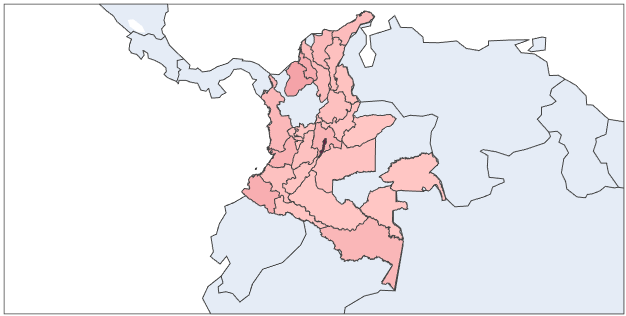
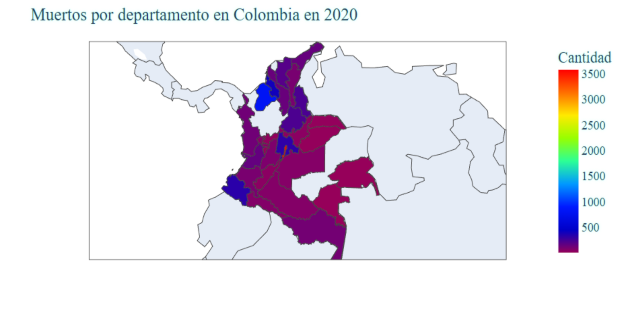
Todo casi listo

diff --git a/pages/graph4.py b/pages/graph4.py
@@ -5,7 +5,7 @@ import pyodbc
 import pandas as pd
 import dash_bootstrap_components as dbc
 
-server = 'LAPTOP-51FAGA1L' # Nombre del server
+server = 'DESKTOP-61S4LKS\SQLEXPRESS' # Nombre del server
 database_name='covid19'
 cnx=pyodbc.connect(driver='{SQL server}', host=server, database=database_name)
 print('succesfull conection')
@@ -41,15 +41,13 @@ layout = html.Div(children=[
                     [
                         html.H2("Gráficas", className="display-4"),
                         html.Hr(),
-                        html.P(
-                            "Selecciona la gráfica que deseas ver", className="lead", style={'textAlign': 'center'}
-                        ),
+                        
                         dbc.Nav(
                             [
-                                dbc.NavLink("Diagnosticados por tiempo", href="/g1", active="exact"),
-                                dbc.NavLink("Diagnosticados por rango de edad", href="/g3", active="exact"),
-                                dbc.NavLink("Diagnosticados por departamento", href="/g4", active="exact"),
-                                dbc.NavLink("Muertes geográficamente en Colombia", href="/g2", active="exact")
+                                dbc.NavLink("Diagnosticados por tiempo", href="/g1", active="exact", style={'fontSize': 13, 'textAlign':'center'}),
+                                dbc.NavLink("Diagnosticados por rango de edad", href="/g3", active="exact", style={'fontSize': 13, 'textAlign':'center'}),
+                                dbc.NavLink("Diagnosticados por departamento", href="/g4", active="exact", style={'fontSize': 13, 'textAlign':'center'}),
+                                dbc.NavLink("Muertes geográficamente en Colombia", href="/g2", active="exact", style={'fontSize': 13, 'textAlign':'center'})
                             ],
                             vertical=True,
                             pills=True,
@@ -94,6 +92,7 @@ layout = html.Div([dcc.Location(id="url_n2"), layout, content])
 def update_output_n(value, pathname):
 
     if value == 'Departamento':
+        'entra'
         df = pd.read_sql_query(
             """
             SELECT d.NombreDepartamento, COUNT(*) AS TotalCasosPorDept
@@ -103,8 +102,9 @@ def update_output_n(value, pathname):
             ORDER BY d.NombreDepartamento
 
             """, cnx)
-        values = df['NombreDepartamento'].value_counts(sort=False).keys().tolist()
-        counts = df['TotalCasosPorDept'].value_counts(sort=False).tolist()
+        values = df['NombreDepartamento']
+        counts = df['TotalCasosPorDept']
+        values[3]='San Andrés'
         title = 'Departamentos'
 
     else:
@@ -112,10 +112,10 @@ def update_output_n(value, pathname):
         dept = str('%'+value+'%')
         df = pd.read_sql_query(
         """
-        SELECT d.FechaDiagnostico, d.NombreDepartamento, COUNT(*) AS CasosPorFecha 
-        FROM covid19.dbo.Dataset d 
+        SELECT d.FechaDiagnostico, d.NombreDepartamento, COUNT(*) AS CasosPorFecha
+        FROM covid19.dbo.Dataset d
         WHERE d.FechaDiagnostico NOT LIKE 'No Aplica' AND d.NombreDepartamento LIKE '%s'
-        GROUP BY d.FechaDiagnostico, d.NombreDepartamento 
+        GROUP BY d.FechaDiagnostico, d.NombreDepartamento
         ORDER BY d.FechaDiagnostico ASC
         """ %dept
         , cnx)
@@ -132,10 +132,10 @@ def update_output_n(value, pathname):
 
             if index == 0:
                 index2=0
-            else: 
+            else:
                 index2=sumIndex
                 print(index2)
-                
+
             tope=countsDept[index]+index2
             print(tope)
 
@@ -145,7 +145,7 @@ def update_output_n(value, pathname):
                 index2=index2+1
                 print(index2)
             counts.append(sum)
-                
+
         print(counts)
 
         title = 'Mes'
@@ -155,7 +155,10 @@ def update_output_n(value, pathname):
     ndf[title] = values
     ndf['Diagnosticados']=counts
 
-    barch = px.bar(ndf, x=title, y='Diagnosticados')
+    if value == 'Departamento':
+        barch = px.bar(ndf, x=title, y='Diagnosticados', text_auto='.2s')
+    else:
+        barch = px.bar(ndf, x=title, y='Diagnosticados', text_auto='.2s', color='Mes')
     if pathname == "/g1":
         return html.P(children="Diagnosticados Covid por tiempo", style = {'textAlign' : 'center'}), barch
     elif pathname == "/g2":

diff --git a/main2.py b/main2.py
@@ -10,7 +10,7 @@ values_list_data=report_data.values.tolist()
 
 #DESKTOP-61S4LKS\SQLEXPRESS -- maycol server
 #LAPTOP-51FAGA1L -- natalia server
-server = 'LAPTOP-51FAGA1L' # Nombre del server
+server = 'DESKTOP-61S4LKS\SQLEXPRESS' # Nombre del server
 database_name='covid19'
 cnx=pyodbc.connect(driver='{SQL server}', host=server, database=database_name)
 print('succesfull conection')
@@ -33,7 +33,7 @@ else:
 cursor.commit()
 cursor.close()
 
-app = Dash(__name__, use_pages=True, external_stylesheets=[dbc.themes.VAPOR, dbc.icons.BOOTSTRAP],suppress_callback_exceptions=True)
+app = Dash(__name__, use_pages=True, external_stylesheets=[dbc.themes.QUARTZ, dbc.icons.BOOTSTRAP],suppress_callback_exceptions=True)
 app.title = "CoVid Analytics"
 
 app.layout = html.Div(
@@ -58,10 +58,10 @@ app.layout = html.Div(
                                 #dbc.NavItem(dbc.NavLink("Fundamentals", href="/fundamentals")),
                                 dbc.NavItem(dbc.DropdownMenu(
                                         children=[
-                                            dbc.DropdownMenuItem("Diagnosticados por tiempo", href="/g1"),
-											dbc.DropdownMenuItem("Diagnosticados por rango de edad", href="/g3"),
-											dbc.DropdownMenuItem("Diagnosticados por departamento", href="/g4"),
-                                            dbc.DropdownMenuItem("Muertos geográficamente en Colombia", href="/g2")
+                                            dbc.DropdownMenuItem("Diagnosticados por tiempo", href="/g1", style={'fontSize': 11}),
+											dbc.DropdownMenuItem("Diagnosticados por rango de edad", href="/g3", style={'fontSize': 11}),
+											dbc.DropdownMenuItem("Diagnosticados por departamento", href="/g4", style={'fontSize': 11}),
+                                            dbc.DropdownMenuItem("Muertos geográficamente en Colombia", href="/g2", style={'fontSize': 11})
                                         ],
                                         nav=True,
                                         in_navbar=True,
@@ -69,8 +69,8 @@ app.layout = html.Div(
                                 )),
                                 dbc.NavItem(dbc.DropdownMenu(
                                         children=[
-                                            dbc.DropdownMenuItem("¿Quiénes somos?", href="/about"),
-                                            dbc.DropdownMenuItem("Fuente de datos", href="/dssource")
+                                            dbc.DropdownMenuItem("¿Quiénes somos?", href="/about", style={'fontSize': 15}),
+                                            dbc.DropdownMenuItem("Fuente de datos", href="/dssource", style={'fontSize': 15})
                                         ],
                                         nav=True,
                                         in_navbar=True,
@@ -90,9 +90,9 @@ app.layout = html.Div(
                              dbc.Collapse(
                                 dbc.Nav([
                                     dbc.NavItem(dbc.NavLink(html.I(className="bi bi-github"), href="https://github.com/MaycolMD/databases_wb.git",external_link=True) ),
-                                    dbc.NavItem(dbc.NavLink(html.I(className="bi bi bi-twitter"), href="https://twitter.com/splunk_ml",external_link=True) ),
-                                    dbc.Input(type="search", placeholder="Search"),
-                                    dbc.Button( "Search", color="dark", className="ms-2", n_clicks=0 ),
+                                    dbc.NavItem(dbc.NavLink(html.I(className="bi bi bi-twitter"), href="https://twitter.com/INSColombia",external_link=True) ),
+                                    dbc.NavItem(dbc.NavLink(html.I(className="bi bi-facebook"), href="https://www.facebook.com/INSColombia",external_link=True) ),
+                                    dbc.NavItem(dbc.NavLink(html.I(className="bi bi-youtube"), href="https://www.youtube.com/user/INSColombia",external_link=True) ),
                                 ]
                                 ),
                                 id="navbar-collapse",

diff --git a/pages/Home.py b/pages/Home.py
@@ -19,7 +19,7 @@ first_card = dbc.Card(
             ]
         )
     ]
-, color = 'primary', outline = True, style={"height": "68rem"},)
+, color = 'primary', outline = True, style={'marginBottom': 10})
 
 second_card = dbc.Card(
     [
@@ -30,11 +30,11 @@ second_card = dbc.Card(
                 html.P("""En esta mapa de Colombia, podremos ver la concentración de muertes por departamento
                 en Colombia a causa del Covid-19. \n
                 Ingresa para más detalles.""", style={'textAlign': 'center'}),
-                dbc.Button("Ingresar", color="primary", size="lg", className="d-grid gap-2 col-6 mx-auto", style={'margin': 15}),
+                dbc.Button("Ingresar", href="/g2", color="primary", size="lg", className="d-grid gap-2 col-6 mx-auto", style={'margin': 15}),
             ]
         )
     ]
-, color = 'primary', outline = True, style={"height": "68rem", 'marginBottom': 40})
+, color = 'primary', outline = True)
 
 third_card = dbc.Card(
     [
@@ -45,7 +45,7 @@ third_card = dbc.Card(
                 html.P("""En esta gráfica, podremos ver el comportamiento por rango de edad y género
                 de las personas diagnosticadas con Covid19. \n
                 Ingresa para más detalles.""", style={'textAlign': 'center'}),
-                dbc.Button("Ingresar", color="primary", size="lg", className="d-grid gap-2 col-6 mx-auto", style={'margin': 15}),
+                dbc.Button("Ingresar", href="/g3", color="primary", size="lg", className="d-grid gap-2 col-6 mx-auto", style={'margin': 15}),
             ]
         )
     ]
@@ -55,12 +55,12 @@ fourth_card = dbc.Card(
     [
         dbc.CardBody(
             [
-                dbc.CardImg(src=dash.get_asset_url('g3.png'), top=True, style={'marginBottom': 30}),
+                dbc.CardImg(src=dash.get_asset_url('g4.png'), top=True, style={'marginBottom': 30}),
                 html.H5("Diagnosticados por departamentos", className="card-title", style={'fontSize': 20, 'marginBottom': 20, 'textAlign': 'center'}),
                 html.P("""En esta gráfica, podremos ver el comportamiento por departamento en Colombia
                 de las personas diagnosticadas con Covid19. \n
                 Ingresa para más detalles.""", style={'textAlign': 'center'}),
-                dbc.Button("Ingresar", color="primary", size="lg", className="d-grid gap-2 col-6 mx-auto", style={'margin': 15}),
+                dbc.Button("Ingresar", href="/g4", color="primary", size="lg", className="d-grid gap-2 col-6 mx-auto", style={'margin': 15}),
             ]
         )
     ]
@@ -77,13 +77,13 @@ layout = html.Div(children=[
     dbc.Row(
         [
             dbc.Col(first_card, width=6),
-            dbc.Col(second_card, width=6),
+            dbc.Col(third_card, width=6),
         ]
     ),
     dbc.Row(
         [
-            dbc.Col(third_card, width=6),
             dbc.Col(fourth_card, width=6),
+            dbc.Col(second_card, width=6),
         ]
     )
 ])

diff --git a/pages/graph1.py b/pages/graph1.py
@@ -7,14 +7,14 @@ from pandas.api.types import CategoricalDtype
 import dash_bootstrap_components as dbc
 import os
 
-server = 'LAPTOP-51FAGA1L' # Nombre del server
+server = 'DESKTOP-61S4LKS\SQLEXPRESS' # Nombre del server
 database_name='covid19'
 cnx=pyodbc.connect(driver='{SQL server}', host=server, database=database_name)
 print('succesfull conection')
 
 cursor=cnx.cursor()
 cursor.tables(table='Dataset', tableType='TABLE').fetchone()
-    
+
 dash.register_page(__name__, path='/g1')
 
 SIDEBAR_STYLE = {
@@ -45,15 +45,12 @@ layout = html.Div(children=[
                     [
                         html.H2("Gráficas", className="display-4"),
                         html.Hr(),
-                        html.P(
-                            "Selecciona la gráfica que deseas ver", className="lead", style={'textAlign': 'center'}
-                        ),
                         dbc.Nav(
                             [
-                                dbc.NavLink("Diagnosticados por tiempo", href="/g1", active="exact"),
-                                dbc.NavLink("Diagnosticados por rango de edad", href="/g3", active="exact"),
-                                dbc.NavLink("Diagnosticados por departamento", href="/g4", active="exact"),
-                                dbc.NavLink("Muertes geográficamente en Colombia", href="/g2", active="exact")
+                                dbc.NavLink("Diagnosticados por tiempo", href="/g1", active="exact", style={'fontSize': 13, 'textAlign':'center'}),
+                                dbc.NavLink("Diagnosticados por rango de edad", href="/g3", active="exact", style={'fontSize': 13, 'textAlign':'center'}),
+                                dbc.NavLink("Diagnosticados por departamento", href="/g4", active="exact", style={'fontSize': 13, 'textAlign':'center'}),
+                                dbc.NavLink("Muertes geográficamente en Colombia", href="/g2", active="exact", style={'fontSize': 13, 'textAlign':'center'})
                             ],
                             vertical=True,
                             pills=True,
@@ -129,7 +126,10 @@ def update_output(value, pathname):
     ndf[title] = values
     ndf['Diagnosticados']=counts
 
-    barch = px.bar(ndf, x=title, y='Diagnosticados')
+    if value == 'Fecha':
+        barch = px.bar(ndf, x=title, y='Diagnosticados',text_auto='.2s')
+    else:
+        barch = px.bar(ndf, x=title, y='Diagnosticados',text_auto='.2s',color=title)
     if pathname == "/g1":
         return html.P(children="Diagnosticados por tiempo", style = {'textAlign' : 'center'}), barch
     elif pathname == "/g2":
@@ -147,4 +147,3 @@ def update_output(value, pathname):
         ],
         className="p-3 bg-light rounded-3",
     ), barch
-

diff --git a/pages/graph3.py b/pages/graph3.py
@@ -6,7 +6,7 @@ import pandas as pd
 import dash_bootstrap_components as dbc
 
 dash.register_page(__name__, path='/g3')
-server = 'LAPTOP-51FAGA1L' # Nombre del server
+server = 'DESKTOP-61S4LKS\SQLEXPRESS' # Nombre del server
 database_name='covid19'
 cnx=pyodbc.connect(driver='{SQL server}', host=server, database=database_name)
 print('succesfull conection')
@@ -42,15 +42,12 @@ layout = html.Div(children=[
                     [
                         html.H2("Gráficas", className="display-4"),
                         html.Hr(),
-                        html.P(
-                            "Selecciona la gráfica que deseas ver", className="lead", style={'textAlign': 'center'}
-                        ),
                         dbc.Nav(
                             [
-                                dbc.NavLink("Diagnosticados por tiempo", href="/g1", active="exact"),
-                                dbc.NavLink("Diagnosticados por rango de edad", href="/g3", active="exact"),
-                                dbc.NavLink("Diagnosticados por departamento", href="/g4", active="exact"),
-                                dbc.NavLink("Muertes geográficamente en Colombia", href="/g2", active="exact")
+                                dbc.NavLink("Diagnosticados por tiempo", href="/g1", active="exact", style={'fontSize': 13, 'textAlign':'center'}),
+                                dbc.NavLink("Diagnosticados por rango de edad", href="/g3", active="exact", style={'fontSize': 13, 'textAlign':'center'}),
+                                dbc.NavLink("Diagnosticados por departamento", href="/g4", active="exact", style={'fontSize': 13, 'textAlign':'center'}),
+                                dbc.NavLink("Muertes geográficamente en Colombia", href="/g2", active="exact", style={'fontSize': 13, 'textAlign':'center'})
                             ],
                             vertical=True,
                             pills=True,
@@ -156,7 +153,7 @@ def update_output(value, pathname):
     ndf['Diagnosticados']=counts
     ndf['Rango'] = values
     print(ndf)
-    barch = px.bar(ndf, x='Diagnosticados', y='Rango', orientation = 'h')
+    barch = px.bar(ndf, x='Diagnosticados', y='Rango', text_auto='.2s', orientation = 'h', color = 'Diagnosticados',color_continuous_scale = "matter")
     if pathname == "/g1":
         return html.P(children="Diagnosticados por tiempo", style = {'textAlign' : 'center'}), barch
     elif pathname == "/g2":

diff --git a/pages/graph2.py b/pages/graph2.py
@@ -7,7 +7,7 @@ import requests
 import plotly.express as px
 import dash_bootstrap_components as dbc
 
-server = 'LAPTOP-51FAGA1L' # Nombre del server
+server = 'DESKTOP-61S4LKS\SQLEXPRESS' # Nombre del server
 database_name='covid19'
 cnx=pyodbc.connect(driver='{SQL server}', host=server, database=database_name)
 print('succesfull conection')
@@ -36,7 +36,7 @@ fig = px.choropleth(
     locations='CodigoDepartamento',
     featureidkey = 'properties.DPTO',
     color='Cantidad',
-    color_continuous_scale = "burg",
+    color_continuous_scale = "rainbow",
     hover_name =df['NombreDepartamento']
 )
 
@@ -78,15 +78,12 @@ layout = html.Div(children=[
                     [
                         html.H2("Gráficas", className="display-4"),
                         html.Hr(),
-                        html.P(
-                            "Selecciona la gráfica que deseas ver", className="lead", style={'textAlign': 'center'}
-                        ),
                         dbc.Nav(
                             [
-                                dbc.NavLink("Diagnosticados por tiempo", href="/g1", active="exact"),
-                                dbc.NavLink("Diagnosticados por rango de edad", href="/g3", active="exact"),
-                                dbc.NavLink("Diagnosticados por departamento", href="/g4", active="exact"),
-                                dbc.NavLink("Muertes geográficamente en Colombia", href="/g2", active="exact")
+                                dbc.NavLink("Diagnosticados por tiempo", href="/g1", active="exact", style={'fontSize': 13, 'textAlign':'center'}),
+                                dbc.NavLink("Diagnosticados por rango de edad", href="/g3", active="exact", style={'fontSize': 13, 'textAlign':'center'}),
+                                dbc.NavLink("Diagnosticados por departamento", href="/g4", active="exact", style={'fontSize': 13, 'textAlign':'center'}),
+                                dbc.NavLink("Muertes geográficamente en Colombia", href="/g2", active="exact", style={'fontSize': 13, 'textAlign':'center'})
                             ],
                             vertical=True,
                             pills=True,
@@ -150,4 +147,3 @@ def update_output(pathname):
         ],
         className="p-3 bg-light rounded-3",
     )
-

diff --git a/pages/fuente.py b/pages/fuente.py
@@ -19,7 +19,7 @@ layout = html.Div(children=[
         dbc.CardBody(
             [
                 html.H4("Proyecto Universitario", className="card-title"),
-                html.P("""Nuestro dataset fue sacado de la plataforma Kaggle
+                html.P("""Nuestro dataset fue sacado de la plataforma INS
                 Este dataset consta de +300k registros, con más de 15 columnas cada registro
 """, className="card-text"),
             ]
@@ -35,7 +35,7 @@ dbc.Row(dbc.Col(html.Div([
         style = {'padding-top' : '1%'}
     ),
     )),
-dbc.Button("Dataset", href="/g1", color="primary", size="lg", className="d-grid gap-2 col-6 mx-auto", style={'margin': 15, 'width':"30rem",'fontSize':20}),
+dbc.Button("Dataset", href="https://www.ins.gov.co/Paginas/Boletines-casos-COVID-19-Colombia.aspx", color="primary", size="lg", className="d-grid gap-2 col-6 mx-auto", style={'margin': 15, 'width':"30rem",'fontSize':20}),
 dbc.Row(dbc.Col(html.Div([
         html.H1(children='Para acceder al repositorio donde se encuentra alojado el código de esta web, presione aquí',
                 style = {'textAlign' : 'center'}

diff --git a/pages/about.py b/pages/about.py
@@ -43,7 +43,7 @@ dbc.Row(
             [
                 dbc.Col(
                     dbc.CardImg(
-                        src="/static/images/portrait-placeholder.png",
+                        src=dash.get_asset_url('may.png'),
                         className="img-fluid rounded-start",
                     ),
                     className="col-md-4",
@@ -71,7 +71,7 @@ dbc.Row(
             [
                 dbc.Col(
                     dbc.CardImg(
-                        src="/static/images/portrait-placeholder.png",
+                        src=dash.get_asset_url('joc.png'),
                         className="img-fluid rounded-start",
                     ),
                     className="col-md-4",
@@ -99,7 +99,7 @@ dbc.Row(
             [
                 dbc.Col(
                     dbc.CardImg(
-                        src="/static/images/portrait-placeholder.png",
+                        src=dash.get_asset_url('nat.png'),
                         className="img-fluid rounded-start",
                     ),
                     className="col-md-4",
